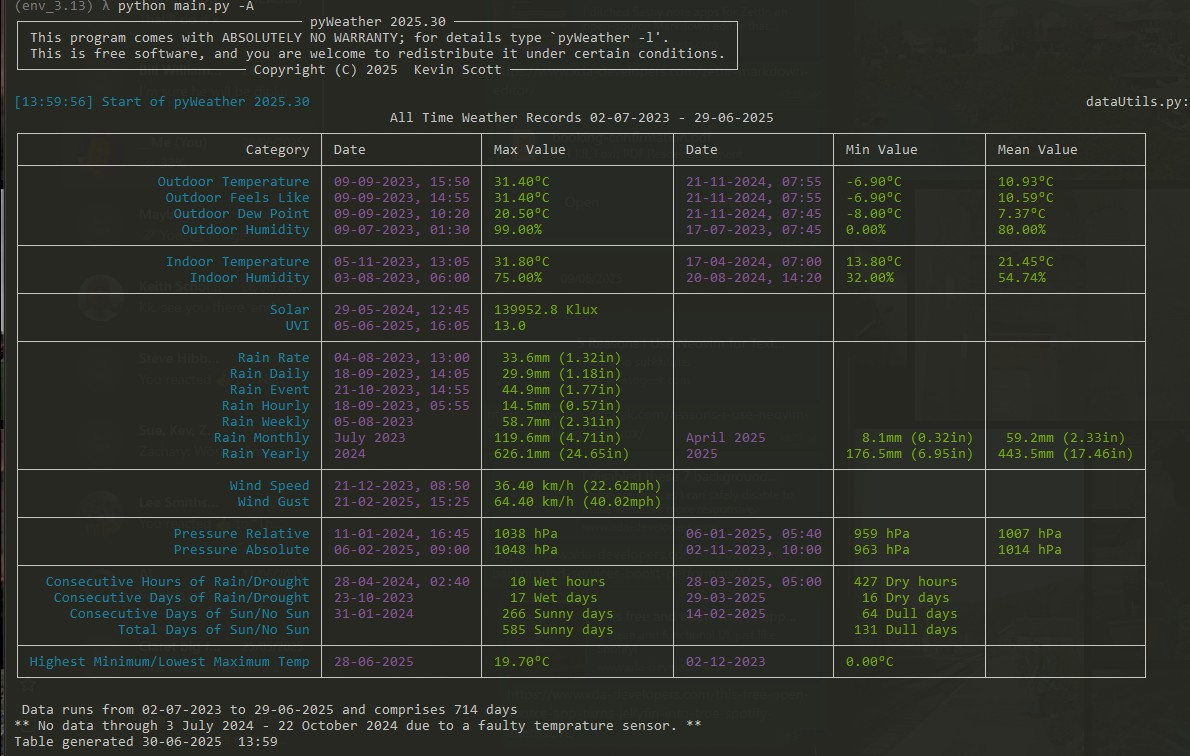
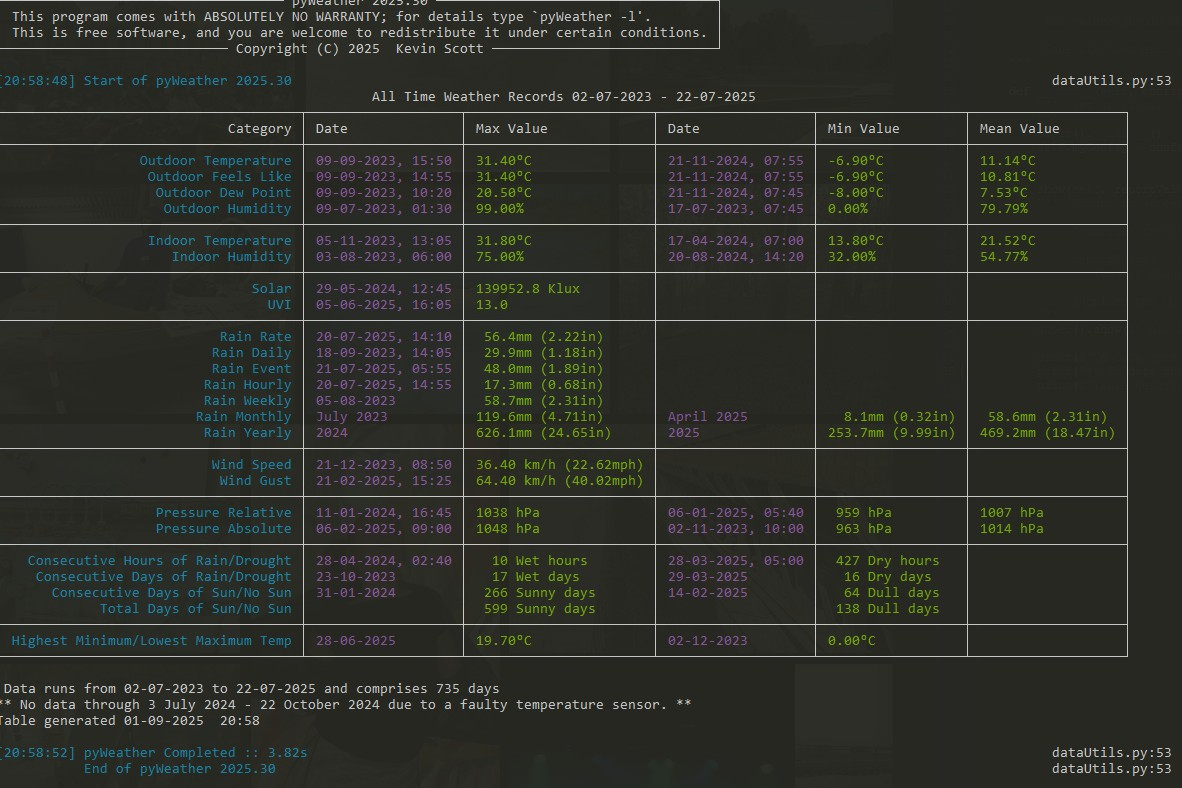
Running on python 3.13.7, all libraries up to date.
Two extra columns was added to the data on the 1ast July 2025.
The columns were "Heap" and "Run Time", these were added at the end of the table.

Then two extra columns where added on the 13th of July 2025.
The columns were "VPD" and "10-minute Average Wind Direction", these were added at columns 5 and 20.

So, depending upon the file creation date, different column headers are used when Pandas reads the excel file.
The file creation date is determined when the file is read and stored in the fileStore.

All code passes ruff

diff --git a/src/classes/dataStore.py b/src/classes/dataStore.py
@@ -85,6 +85,7 @@ class dataStore():
         self.pStore.save()
         utils.logPrint(self.logger, True, " Saving the data store.", "info")
         self.dfData.to_pickle(self.storeName)
+        #print(self.dfData.tail())
         #self.dfData.to_csv("data.csv")
     #-------------------------------------------------------------------------------- checkData(self, checkDB) ------------------
     def info(self):
@@ -129,22 +130,39 @@ class dataStore():
         for fileName in self.fStore.storeFiles():
             fileData = self.fStore.getItem(fileName)
             if not fileData[0]:
-                month = fileData[1]
-                year  = fileData[2]
+                dataMonth = fileData[1]
+                dataYear  = fileData[2]
+                fileDate  = fileData[3]
+
+                """  Two extra columns was added to the data on the 1ast July 2025.
+                     The columns were "Heap" and "Run Time", these were added at the end of the table.
+
+                     Then two extra columns where added on the 13th of July 2025.
+                     The columns were "VPD" and "10-minute Average Wind Direction", these were added at columns 5 and 20.
+                """
+                if fileDate >= datetime.datetime(2025, 7, 1) and fileDate < datetime.datetime(2025, 7, 13):
+                    columnHeaders = pp.columnHeaders_1
+                    rowsToSkip    = [0,23,24]
+                elif fileDate > datetime.datetime(2025, 7, 12):
+                    columnHeaders = pp.columnHeaders_2
+                    rowsToSkip    = [0,5,20,23,24]
+                else:
+                    columnHeaders = pp.columnHeaders
+                    rowsToSkip    = [0]
 
                 noOfLines += 1
 
-                if CurrentYear != year:
-                    CurrentYear = year
+                if CurrentYear != dataYear:
+                    CurrentYear = dataYear
                     if not self.pStore.hasYear(CurrentYear):
-                        self.pStore.addYear(year)
-                if currentMonth != month:
-                    currentMonth = month
-                    if not self.pStore.hasMonth(CurrentYear, month):
-                        self.pStore.addMonth(year, month)
+                        self.pStore.addYear(dataYear)
+                if currentMonth != dataMonth:
+                    currentMonth = dataMonth
+                    if not self.pStore.hasMonth(CurrentYear, dataMonth):
+                        self.pStore.addMonth(dataYear, dataMonth)
                     utils.logPrint(self.logger, True, f" Processing new data files for {currentMonth} {CurrentYear}", "info")
 
-                data = pd.read_excel(fileName, skiprows=[0], na_values=[0.0], names=pp.columnHeaders)
+                data = pd.read_excel(fileName, skiprows=rowsToSkip, na_values=[0.0], names=columnHeaders)
 
                 #  This forces all entries to be of type float, all errors will be set to NaN.
                 #  We ignore the first header "date", this is not numeric and will be sorted with later.

diff --git a/src/classes/fileStore.py b/src/classes/fileStore.py
@@ -27,6 +27,8 @@
 #                                                                                                             #
 ###############################################################################################################
 
+import datetime
+
 import pickle
 
 import src.timer as timer
@@ -86,10 +88,17 @@ class FileStore():
              item1 is set to False, this indicates is has been added but not processed.
              item2 is set to the month of the file.
              item3 is set to the year of the file.
+             item4 is the create date of the date file.
         """
         month = key.parts[8]
         year  = key.parts[7]
-        self.fileStore[key] = [False, month, year]
+
+        startPos = key.parts[9].index("(") + 1
+        endPos   = startPos + 12
+        fileDate = key.parts[9][startPos:endPos]
+        dtDate   = datetime.datetime.strptime(fileDate, "%Y%m%d%H%M")       #  Store the file date as a dateTime.
+
+        self.fileStore[key] = [False, month, year, dtDate]
     #---------------------------------------------------------------------------------------------- getItem(self, key) -----------------
     def getItem(self, key):
         """  Returns items at position key from the fileStore.
@@ -170,7 +179,10 @@ class FileStore():
         utils.logPrint(self.logger, True, f"File Store has {no_files} files", "info")
 
         for filePath in self.fileStore.copy():  # iterate over a copy, gets around the error dictionary changed size during iteration
-            path, month, year = self.getItem(filePath)
+            path, month, year, fileDate = self.getItem(filePath)
+
+            print(f"filePath = {filePath} : month = {month} : year = {year}  fileDate = {fileDate}")
+
             if not filePath.exists():
                 if mode == "delete":
                     self.delItem(filePath)

diff --git a/src/projectPaths.py b/src/projectPaths.py
@@ -62,7 +62,25 @@ else:
     DATA_PATH     = MAIN_PATH / "data"
 
 #  Column headers for the Pandas dataframe.
+
+"""  Two extra columns was added to the data on the 1ast July 2025.
+        The columns were "Heap" and "Run Time", these were added at the end of the table.
+
+        Then two extra columns where added on the 13th of July 2025.
+        The columns were "VPD" and "10-minute Average Wind Direction", these were added at columns 5 and 20.
+"""
+
 columnHeaders = ["Date", "Outdoor Temperature", "Outdoor Feels Like", "Outdoor Dew Point", "Outdoor Humidity",
                  "Indoor Temperature", "Indoor Humidity", "Solar", "UVI", "Rain Rate", "Rain Daily",
                  "Rain Event", "Rain Hourly", "Rain Weekly", "Rain Monthly", "Rain Yearly",
                  "Wind Speed", "Wind Gust", "Wind Direction", "Pressure Relative", "Pressure Absolute"]
+
+columnHeaders_1 = ["Date", "Outdoor Temperature", "Outdoor Feels Like", "Outdoor Dew Point", "Outdoor Humidity",
+                 "Indoor Temperature", "Indoor Humidity", "Solar", "UVI", "Rain Rate", "Rain Daily","Rain Event",
+                 "Rain Hourly", "Rain Weekly", "Rain Monthly", "Rain Yearly","Wind Speed", "Wind Gust",
+                 "Wind Direction", "Pressure Relative", "Pressure Absolute", "Heap", "Run Time"]
+
+columnHeaders_2 = ["Date", "Outdoor Temperature", "Outdoor Feels Like", "Outdoor Dew Point", "Outdoor Humidity", "VPD",
+                 "Indoor Temperature", "Indoor Humidity", "Solar", "UVI", "Rain Rate", "Rain Daily","Rain Event",
+                 "Rain Hourly", "Rain Weekly", "Rain Monthly", "Rain Yearly","Wind Speed", "Wind Gust",
+                 "Wind Direction", "10-Minute", "Pressure Relative", "Pressure Absolute", "Heap", "Run Time"]

diff --git a/src/classes/reports.py b/src/classes/reports.py
@@ -77,7 +77,6 @@ class Reports():
 
                 dfMonth   = dfYear.loc[dfYear["Date"].dt.month==month]          # .loc is used to stop Boolean Series warnings.
                 lastRow   = dfMonth.iloc[-1]
-                rainDate  = self.__convertDate(lastRow["Date"], "Rain Monthly")
                 rainValue = lastRow["Rain_Monthly"]
 
                 sumMnRain   += rainValue
@@ -120,7 +119,6 @@ class Reports():
 
             dfMonth   = dfYear.loc[dfYear["Date"].dt.month==month]       # .loc is used to stop Boolean Series warnings.
             lastRow   = dfMonth.iloc[-1]
-            rainDate  = self.__convertDate(lastRow["Date"], "Rain Monthly")
             rainValue = lastRow["Rain Monthly"]
 
             sumMnRain   += rainValue
@@ -163,7 +161,6 @@ class Reports():
     def MonthlyReport(self, reportMonth):
         """  Process the data and extract the record values for a given month across all years.
         """
-
         searchMonth = list(calendar.month_name).index(reportMonth)  #  Converts the month to a number for searching.
 
         rep = mr.monthlyRecords()

diff --git a/src/classes/allTimeRecords.py b/src/classes/allTimeRecords.py
@@ -52,5 +52,5 @@ class AllTimeRecords(Records):
         super().show(f" All Time Weather Records {self.myConfig.START_DATE} - {self.myConfig.END_DATE}", reportValues)
 
         print(f"\n Data runs from {self.myConfig.START_DATE} to {self.myConfig.END_DATE} and comprises {self.myConfig.NO_OF_LINES} days")
-        print("** No data through 3 July 2024 - 22 October 2024 due to a faulty temprature sensor. **" )
+        print("** No data through 3 July 2024 - 22 October 2024 due to a faulty temperature sensor. **" )
         print(f"Table generated {datetime.now().strftime("%d-%m-%Y  %H:%M")}")

diff --git a/src/utils/weatherUtils.py b/src/utils/weatherUtils.py
@@ -119,8 +119,12 @@ def daysSunshine(dfData):
     dateSun    = ""
 
     for row in dfData.itertuples():
-            date  = row.Date.strftime("%d-%m-%Y")
-            solar = row.Solar
+
+            try:
+                date  = row.Date.strftime("%d-%m-%Y")
+                solar = row.Solar
+            except ValueError:
+                print(f"{row}  : oldDate = {oldDate}")
 
             if solar > maxSolar:
                 maxSolar = solar
